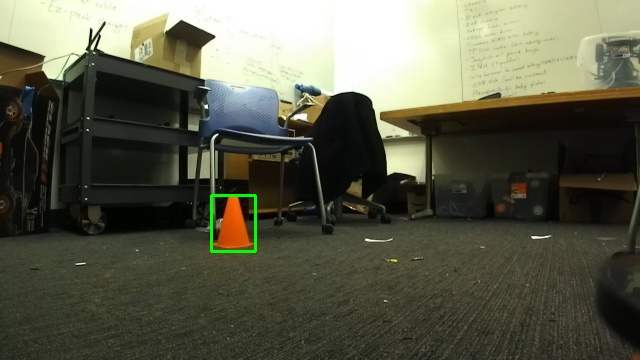
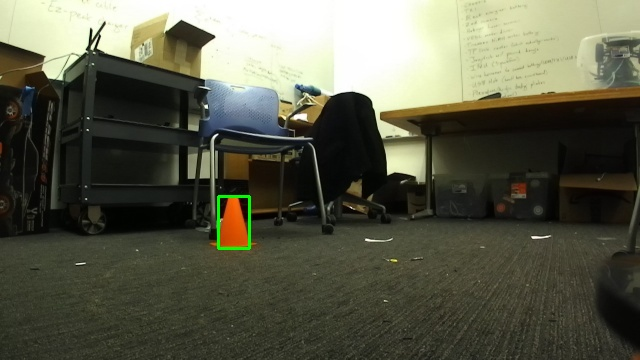
changed HSV values and added test result images

Changed region(s): [[0.3125, 0.5194, 0.4062, 0.7028]]

diff --git a/visual_servoing/visual_servoing/computer_vision/color_segmentation.py b/visual_servoing/visual_servoing/computer_vision/color_segmentation.py
@@ -42,8 +42,8 @@ def cd_color_segmentation(img, template):
 	#orange_low = (0, 100, 100)
 	#orange_high = (18, 255, 255)	
 
-	orange_low = (0, 80, 70)
-	orange_high = (18, 255, 255)	
+	orange_low = (0, 120, 150)
+	orange_high = (20, 255, 255)	
 
 	mask = cv2.inRange(hsv_img, orange_low, orange_high)
 
@@ -56,14 +56,16 @@ def cd_color_segmentation(img, template):
 	# returns list of contours and hiearchy, retr ignores inside countours, approx is for compression
 	contours, _ = cv2.findContours(mask, cv2.RETR_EXTERNAL, cv2.CHAIN_APPROX_SIMPLE)
 	# should only be one if its just cone
-	biggest_contour = max(contours, key = cv2.contourArea)
-	x, y, w, h = cv2.boundingRect(biggest_contour)
-	bounding_box = ((x, y), (x + w, y + h))
+	if len(contours) != 0:
+		biggest_contour = max(contours, key = cv2.contourArea)
+		x, y, w, h = cv2.boundingRect(biggest_contour)
+		bounding_box = ((x, y), (x + w, y + h))
+	else:
+		print("Cone not found.")
 
 	cv2.rectangle(img, bounding_box[0], bounding_box[1], (0, 255, 0), 2)
 	#cv2.imshow('Contours', img)
 	cv2.imwrite("debug.jpg", img) 
-
 
 	########### YOUR CODE ENDS HERE ###########
 
